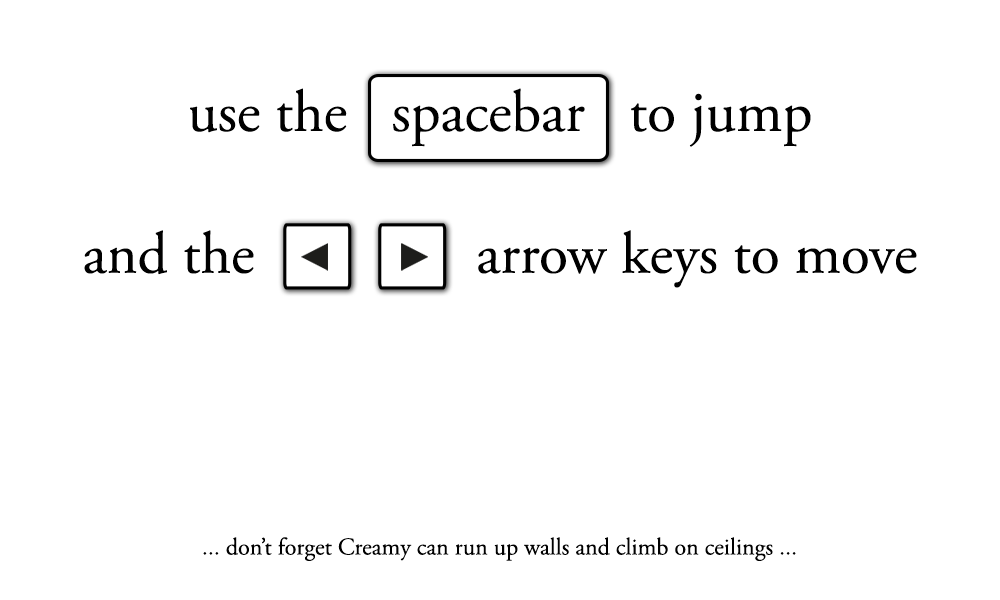
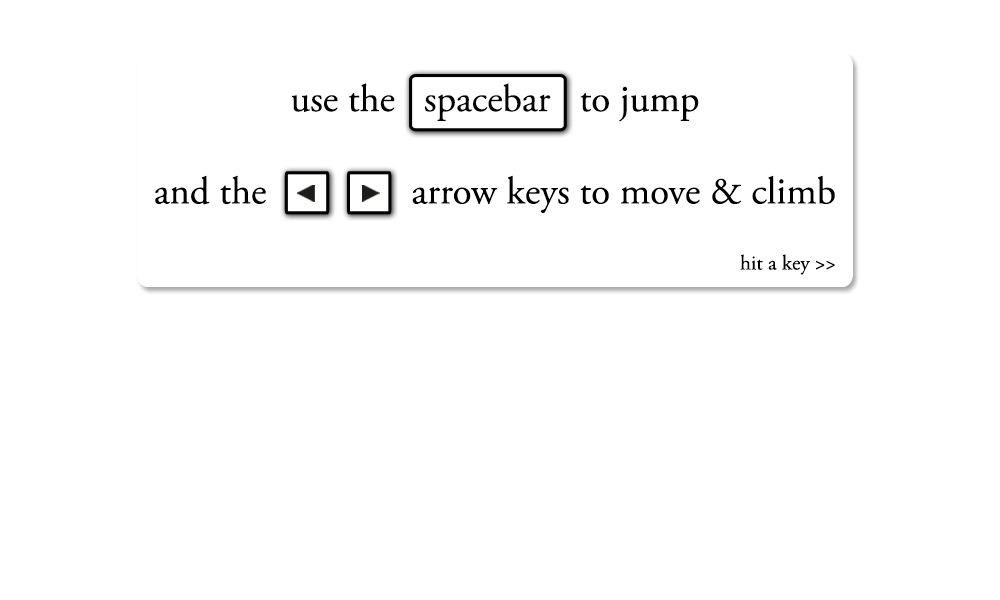
minified with closure, refined loading sequence

Changed region(s): [[0.062, 0.12, 0.93, 0.51], [0.217, 0.9, 0.775, 0.93]]

diff --git a/javascripts/creamy-min.js b/javascripts/creamy-min.js
@@ -1,0 +1,56 @@
+function xhrGet(d,a,c){var b=new XMLHttpRequest;b.open("GET",d,!0);c&&(b.responseType=c);b.onload=a;b.send()}Array.prototype.erase=function(d){for(var a=this.length;a--;a)this[a]===d&&this.splice(a,1);return this};Function.prototype.bind=function(d){var a=this;return function(){var c=Array.prototype.slice.call(arguments);return a.apply(d||null,c)}};
+merge=function(d,a){for(var c in a){var b=a[c];if("object"!=typeof b||b instanceof Class)d[c]=b;else{if(!d[c]||"object"!=typeof d[c])d[c]={};merge(d[c],b)}}return d};function copy(d){if(!d||"object"!=typeof d||d instanceof Class)return d;if(d instanceof Array)for(var a=[],c=0,b=d.length;c<b;c++)a[c]=copy(d[c]);else for(c in a={},d)a[c]=copy(d[c]);return a}
+function ksort(d){if(!d||"object"!=typeof d)return[];var a=[],c=[],b;for(b in d)a.push(b);a.sort();for(b=0;b<a.length;b++)c.push(d[a[b]]);return c}
+(function(){var d=!1,a=/xyz/.test(function(){xyz})?/\bparent\b/:/.*/;this.Class=function(){};var c=function(b){var c=this.prototype,d={},f;for(f in b)"function"==typeof b[f]&&"function"==typeof c[f]&&a.test(b[f])?(d[f]=c[f],c[f]=function(a,b){return function(){var c=this.parent;this.parent=d[a];var g=b.apply(this,arguments);this.parent=c;return g}}(f,b[f])):c[f]=b[f]};this.Class.extend=function(b){function g(){if(!d){if(this.staticInstantiate){var a=this.staticInstantiate.apply(this,arguments);if(a)return a}for(var b in this)"object"==
+typeof this[b]&&(this[b]=copy(this[b]));this.init&&this.init.apply(this,arguments)}return this}var e=this.prototype;d=!0;var f=new this;d=!1;for(var h in b)"function"==typeof b[h]&&"function"==typeof e[h]&&a.test(b[h])?f[h]=function(a,b){return function(){var c=this.parent;this.parent=e[a];var d=b.apply(this,arguments);this.parent=c;return d}}(h,b[h]):f[h]=b[h];g.prototype=f;g.constructor=g;g.extend=arguments.callee;g.inject=c;return g}})();
+newGuid_short=function(){return(65536*(1+Math.random())|0).toString(16).substring(1).toString()};(function(){window.Vec2=Box2D.Common.Math.b2Vec2;window.BodyDef=Box2D.Dynamics.b2BodyDef;window.Body=Box2D.Dynamics.b2Body;window.FixtureDef=Box2D.Dynamics.b2FixtureDef;window.Fixture=Box2D.Dynamics.b2Fixture;window.World=Box2D.Dynamics.b2World;window.MassData=Box2D.Collision.Shapes.b2MassData;window.PolygonShape=Box2D.Collision.Shapes.b2PolygonShape;window.CircleShape=Box2D.Collision.Shapes.b2CircleShape;window.DebugDraw=Box2D.Dynamics.b2DebugDraw;window.RevoluteJointDef=Box2D.Dynamics.Joints.b2RevoluteJointDef;
+var d=Class.extend({gravity:new Vec2(0,9.8),stateTime:0,world:null,scale:32,setup:function(){gPhysicsEngine.world=new World(gPhysicsEngine.gravity,!0);gPhysicsEngine.addContactListener({PostSolve:function(a,c,b,d){var e=a?a.GetUserData():null,f=c?c.GetUserData():null;if(e&&e.ent&&e.ent.onTouch)e.ent.onTouch(c,b,d);if(f&&f.ent&&f.ent.onTouch)f.ent.onTouch(a,b,d)},EndContact:function(a,c){var b=a?a.GetUserData():null,d=c?c.GetUserData():null;if(b&&b.ent&&b.ent.onEndContact)b.ent.onEndContact();if(d&&
+d.ent&&d.ent.onEndContact)d.ent.onEndContact()}})},update:function(a){this.stateTime+=a;this.stateTime>=1E3/60&&(this.stateTime=0,gPhysicsEngine.world.Step(1/60,8,3),gPhysicsEngine.world.ClearForces())},addContactListener:function(a){var c=new Box2D.Dynamics.b2ContactListener;a.PostSolve&&(c.PostSolve=function(b,c){a.PostSolve(b.GetFixtureA().GetBody(),b.GetFixtureB().GetBody(),c,b)});a.BeginContact&&(c.BeginContact=function(b){a.BeginContact(b.GetFixtureA().GetBody(),b.GetFixtureB().GetBody())});
+a.EndContact&&(c.EndContact=function(b){a.EndContact(b.GetFixtureA().GetBody(),b.GetFixtureB().GetBody())});gPhysicsEngine.world.SetContactListener(c)},addBody:function(a){var c=new BodyDef,b=new FixtureDef,d=null;c.type="static"===a.type?Body.b2_staticBody:Body.b2_dynamicBody;c.position.x=a.x/gPhysicsEngine.scale;c.position.y=a.y/gPhysicsEngine.scale;c.userData=a.userData||null;b.density=a.density||b.density;b.friction=a.friction||b.friction;b.restitution=a.restitution||b.restitution;a.shape?b.shape=
+a.shape:a.radius?b.shape=new CircleShape(a.radius/gPhysicsEngine.scale):(b.shape=new PolygonShape,b.shape.SetAsBox(a.halfWidth/gPhysicsEngine.scale,a.halfHeight/gPhysicsEngine.scale));d=gPhysicsEngine.world.CreateBody(c);d.CreateFixture(b);return d},removeBody:function(a){gPhysicsEngine.world.DestroyBody(a)},testEngine:function(){var a=new DebugDraw;a.SetSprite(gContext);a.SetDrawScale(gPhysicsEngine.scale);a.SetFillAlpha(0.3);a.SetLineThickness(1);a.SetFlags(DebugDraw.e_shapeBit|DebugDraw.e_jointBit);
+gPhysicsEngine.world.SetDebugDraw(a)}});window.gPhysicsEngine=new d}).call(this);var gCachedAssets={};function loadImage(d,a){if(gCachedAssets[d])a(gCachedAssets[d]);else{var c=new Image;c.onload=function(){gCachedAssets[d]=c;a(c)};c.src=d}}
+function loadAssets(d,a){for(var c={count:0,total:d.length,cb:a},b=0;b<d.length;b++)if(gCachedAssets[d[b]])onLoadedCallback(gCachedAssets[d[b]],c);else{var g=getAssetTypeFromExtension(d[b]);if(0===g){var e=new Image;e.onload=function(){onLoadedCallback(e,c)};e.src=d[b];gCachedAssets[d[b]]=e}else if(1===g){var f=document.createElement("script");f.setAttribute("type","text/javascript");f.onload=function(a){onLoadedCallback(f,c)};f.setAttribute("src",d[b]);document.getElementsByTagName("head")[0].appendChild(f);
+gCachedAssets[d[b]]=f}else if(2===g){var h=d[b];xhrGet(d[b],function(){gCachedAssets[h]=this.responseText;onLoadedCallback(h,c)})}}}function onLoadedCallback(d,a){a.count++;a.count==a.total&&a.cb(d)}function getAssetTypeFromExtension(d){return-1!=d.indexOf(".jpg")||-1!=d.indexOf(".jpeg")||-1!=d.indexOf(".png")||-1!=d.indexOf(".gif")||-1!=d.indexOf(".wp")?0:-1!=d.indexOf(".json")?2:-1!=d.indexOf(".js")?1:-1};(function(){window.requestAnimationFrame=window.requestAnimationFrame||window.mozRequestAnimationFrame||window.webkitRequestAnimationFrame||window.msRequestAnimationFrame;window.cancelAnimationFrame=window.cancelAnimationFrame||window.mozCancelAnimationFrame||window.webkitCancelAnimationFrame})();
+(function(){var d=Class.extend({request:null,startTime:0,gameState:3,STATE:{PLAY:1,GAMEOVER:2,WIN:3},numLevels:3,currentLevel:-1,entities:[],factory:{},_deferredKill:[],loadingHTML:"",setup:function(){gContext.drawImage(gCachedAssets["images/controls.png"],0,0);gGameEngine.loadingHTML+=gLoading.innerHTML;loadAssets(["images/background.png","images/gamesprite.png","images/gamesprite.json"],function(){gInputEngine.setup();gBackground.setup("images/background.png");gGameEngine.setupSounds();gGameEngine.setupSpritesAndEntities();
+gGameEngine.loadNextLevel()})},gameLoop:function(){if(gGameEngine.gameState===gGameEngine.STATE.PLAY){gGameEngine.request=requestAnimationFrame(gGameEngine.gameLoop);var a=Date.now()-gGameEngine.startTime;gGameEngine.startTime=Date.now();gGameEngine.update(a);gGameEngine.draw()}else gGameEngine.gameState===gGameEngine.STATE.GAMEOVER?(alert("game over"),cancelAnimationFrame(gGameEngine.request)):gGameEngine.gameState===gGameEngine.STATE.WIN&&(cancelAnimationFrame(gGameEngine.request),gGameEngine.loadNextLevel())},
+update:function(a){gPlayer.update(a);for(var c=null,b=0;b<gGameEngine.entities.length;b++)c=gGameEngine.entities[b],c._killed?gGameEngine._deferredKill.push(c):c.update(a);for(c=0;c<gGameEngine._deferredKill.length;c++)gGameEngine._deferredKill[c].kill&&gGameEngine._deferredKill[c].kill(),gGameEngine.entities.erase(gGameEngine._deferredKill[c]);gGameEngine._deferredKill=[];gPhysicsEngine.update(a)},draw:function(){gBackground.draw();gMap.draw(gContext);var a=[],c={};gGameEngine.entities.forEach(function(b){b.isVisible&&
+(-1===a.indexOf(b.zindex)&&(a.push(b.zindex),c[b.zindex]=[]),c[b.zindex].push(b))});a.sort(function(a,c){return a-c});a.forEach(function(a){c[a].forEach(function(a){a.draw()})});gPlayer.draw();gGameEngine.drawFrame()},loadNextLevel:function(){function a(){gLoading.style.visibility="hidden";gGameEngine.startTime=Date.now();gGameEngine.gameState=gGameEngine.STATE.PLAY;gGameEngine.request=requestAnimationFrame(gGameEngine.gameLoop);document.removeEventListener("keyup",a,!1)}if(gGameEngine.gameState===
+gGameEngine.STATE.WIN)if(gGameEngine.gameState=0,gGameEngine.currentLevel+=1,gGameEngine.currentLevel>=gGameEngine.numLevels)gContext.drawImage(gCachedAssets["images/winner.png"],0,0);else{if(0!==gGameEngine.currentLevel){gContext.fillStyle="white";gContext.fillRect(0,0,gCanvas.width,gCanvas.height);var c=document.getElementById("levelup");c.onload=function(){c.style.display="block";setTimeout(function(){c.style.display="none";a()},3E3)};c.src="images/levelup.gif?"+(new Date).valueOf()}else setTimeout(function(){loadAssets(["images/map_tileset.png"],
+function(){})},8E3);gLoading.innerHTML=gGameEngine.loadingHTML;gPhysicsEngine.setup();gGameEngine.entities=[];gGameEngine._deferredKill=[];var b="images/level"+gGameEngine.currentLevel+".json";gMap=new TILEDMapClass;gMap.load(b,function(){0===gGameEngine.currentLevel&&(gContext.drawImage(gCachedAssets["images/doneloading.png"],0,0),gGameEngine.drawFrame(),document.getElementById("logo").style.visibility="hidden");gMap.preDrawCache();gMap.createEntities();gMap.centerAt(gPlayer.pos.x,gPlayer.pos.y,
+600,1E3);gLoading.innerHTML="... hit any key to start ...";0===gGameEngine.currentLevel&&document.addEventListener("keyup",a,!1)},1E3,600)}},spawnEntity:function(a){a=new gGameEngine.factory[a];gGameEngine.entities.push(a);return a},drawFrame:function(){drawSprite("blendL.png",-1,-1,30,601);drawSprite("blendR.png",971,-1,30,601)},playWorldSound:function(a,c,b){var d=gGameEngine.gMap,d=0.5*Math.max(d.viewRect.w,d.viewRect.h),e=gGameEngine.gPlayer.pos;c=Math.abs(e.x-c);b=Math.abs(e.y-b);b=Math.sqrt(c*
+c+b*b)/d;1<b&&(b=1);if(!(0>b)){var f=1-b;gSM.loadAsync(a,function(a){gSM.playSound(a.path,{volume:f,looping:!1})})}},setupSounds:function(){gSM.loadAsync("sound/coin.ogg",function(){gSM.loadAsync("sound/hit.ogg",function(){gSM.playSound("sound/coin.ogg")})})},setupSpritesAndEntities:function(){var a=new SpriteSheetClass;a.setAsset("images/gamesprite.png",gCachedAssets["images/gamesprite.png"]);a.parseAtlasDefinition(gCachedAssets["images/gamesprite.json"])},createPlatform:function(a,c,b,d){gGameEngine.spawnEntity("PlatformEntity").create(a,
+c,b,d,"platform.png",null)},createGoal:function(a,c){gGameEngine.spawnEntity("GoalEntity").create(a,c,380,380,"goal01.png goal02.png goal03.png goal04.png goal05.png goal06.png goal07.png goal08.png goal09.png goal10.png".split(" "),700)},createDynamicEnemy:function(a,c){gGameEngine.spawnEntity("EnemyEntity").create(a,c,139,120,"enemydynamic01.png enemydynamic02.png enemydynamic03.png enemydynamic04.png enemydynamic05.png enemydynamic06.png enemydynamic07.png".split(" "),500,!0)},createStaticEnemy:function(a,
+c){gGameEngine.spawnEntity("EnemyEntity").create(a,c,300,104,"enemystatic01.png enemystatic02.png enemystatic03.png enemystatic04.png enemystatic05.png enemystatic06.png enemystatic06.png".split(" "),800,!1)}});window.gGameEngine=new d}).call(this);var fudgeVariance=128,EntityClass=Class.extend({pos:{x:0,y:0},canvaspos:{x:0,y:0},size:{x:0,y:0},halfsize:{x:0,y:0},_killed:!1,zindex:0,sprite:"",create:function(d,a,c,b,g){this.pos.x=d;this.pos.y=a;this.size.x=c;this.size.y=b;this.halfsize.x=c/2;this.halfsize.y=b/2;this.sprite=g;this.convertPosToScreen()},position:function(d,a){this.pos.x=d;this.pos.y=a},setSprite:function(d){this.sprite=d},update:function(){},convertPosToScreen:function(){this.canvaspos.x=this.pos.x-gMap.viewRect.x;this.canvaspos.y=
+this.pos.y-gMap.viewRect.y},draw:function(){this.convertPosToScreen();drawSprite(this.sprite,this.canvaspos.x-this.halfsize.x,this.canvaspos.y-this.halfsize.y,this.size.x,this.size.y)},isVisible:function(){return entity.pos.x>=gMap.viewRect.x-fudgeVariance&&entity.pos.x<gMap.viewRect.x+gMap.viewRect.w+fudgeVariance&&entity.pos.y>=gMap.viewRect.y-fudgeVariance&&entity.pos.y<gMap.viewRect.y+gMap.viewRect.h+fudgeVariance?!0:!(gMap.viewRect.x>this.pos.x+this.halfsize.x||gMap.viewRect.x+gMap.viewRect.w<
+this.pos.x-this.halfsize.x||gMap.viewRect.y>this.pos.y+this.halfsize.y||gMap.viewRect.y+gMap.viewRect.h<this.pos.y+this.halfsize.y)}});gGameEngine.factory.EntityClass=EntityClass;(function(){var d=Class.extend({clips:{},enabled:!0,_context:null,_mainNode:null,setup:function(){try{gSM._context=new webkitAudioContext}catch(a){console.log("Web Audio API is not supported in this browser");gSM._context=null;gSM.enabled=!1;return}gSM._mainNode=gSM._context.createGainNode(0);gSM._mainNode.connect(gSM._context.destination)},loadAsync:function(c,b){if(gSM.clips[c])return b(gSM.clips[c].s),gSM.clips[c].s;var d={s:new a,b:null,l:!1};gSM.clips[c]=d;d.s.path=c;var e=new XMLHttpRequest;
+e.open("GET",c,!0);e.responseType="arraybuffer";e.onload=function(){gSM._context.decodeAudioData(e.response,function(a){gSM.clips[c].b=a;gSM.clips[c].l=!0;b(gSM.clips[c].s)},function(a){})};e.send();return d.s},togglemute:function(){if(!gSM.enabled)return!1;gSM._mainNode.gain.value=0<gSM._mainNode.gain.value?0:1},stopAll:function(){gSM._mainNode.disconnect();gSM._mainNode=gSM._context.createGainNode(0);gSM._mainNode.connect(gSM._context.destination)},playSound:function(a,b){if(!gSM.enabled)return!1;
+var d=!1,e=0.2;b&&(b.looping&&(d=b.looping),b.volume&&(e=b.volume));var f=this.clips[a];if(null===f||!1===f.l)return!1;var h=null,h=gSM._context.createBufferSource();h.buffer=f.b;h.gain.value=e;h.loop=d;h.connect(gSM._mainNode);h.noteOn(0);return!0}}),a=Class.extend({play:function(a){gSM.playSound(this.path,{looping:a,volume:1})}});window.gSM=new d}).call(this);(function(){var d=Class.extend({bindings:{},actions:{},mouse:{x:0,y:0},setup:function(){gInputEngine.bind(32,"jump");gInputEngine.bind(37,"move-left");gInputEngine.bind(39,"move-right");document.addEventListener("keydown",gInputEngine.onKeyDown);document.addEventListener("keyup",gInputEngine.onKeyUp)},onMouseMove:function(a){gInputEngine.mouse.x=a.clientX;gInputEngine.mouse.y=a.clientY},onKeyDown:function(a){(a=gInputEngine.bindings[a.keyCode])&&(gInputEngine.actions[a]=!0)},onKeyUp:function(a){(a=
+gInputEngine.bindings[a.keyCode])&&(gInputEngine.actions[a]=!1)},bind:function(a,c){gInputEngine.bindings[a]=c}});window.gInputEngine=new d}).call(this);var gSpriteSheets={},SpriteSheetClass=Class.extend({img:null,url:"",sprites:[],init:function(){},load:function(d){this.url=d;var a=new Image;a.src=d;this.img=a;gSpriteSheets[d]=this},setAsset:function(d,a){this.url=d;this.img=a;gSpriteSheets[d]=this},defSprite:function(d,a,c,b,g,e,f){this.sprites.push({id:d,x:a,y:c,w:b,h:g,cx:null===e?0:e,cy:null===f?0:f})},parseAtlasDefinition:function(d){d=JSON.parse(d);for(var a in d.frames){var c=d.frames[a],b=0.5*-c.frame.w,g=0.5*-c.frame.h;c.trimmed&&(g=0.5*
+c.sourceSize.h,b=-(0.5*c.sourceSize.w-c.spriteSourceSize.x),g=-(g-c.spriteSourceSize.y));this.defSprite(a,c.frame.x,c.frame.y,c.frame.w,c.frame.h,b,g)}},getStats:function(d){for(var a=0;a<this.sprites.length;a++)if(this.sprites[a].id===d)return this.sprites[a];return null}});function drawSprite(d,a,c,b,g){for(var e in gSpriteSheets){var f=gSpriteSheets[e],h=f.getStats(d);if(null!==h){if(null===f)break;gContext.drawImage(f.img,h.x,h.y,h.w,h.h,a,c,b,g);break}}};var AnimatedEntity=EntityClass.extend({assets:[],numFrames:0,currentFrame:0,frameLength:0,stateTime:0,loop:!1,direction:1,create:function(d,a,c,b,g,e,f){this.parent(d,a,c,b,null);this.assets=g;this.numFrames=g.length;this.frameLength=e/this.numFrames;this.loop=f||!1},update:function(d){this.stateTime+=d;if(this.stateTime>this.frameLength&&(this.stateTime=0,this.currentFrame+=this.direction,this.currentFrame>=this.numFrames||0>this.currentFrame))this.currentFrame-=this.direction,this.direction*=-1,
+this.loop||(this._killed=!0)},draw:function(){this.setSprite(this.assets[this.currentFrame]);this.parent()}});gGameEngine.factory.AnimatedEntity=AnimatedEntity;(function(){var d=Class.extend({x:0,y:0,w:100,h:100,cvsHdl:null,ctx:null,create:function(a,c){this.y=this.x=-1;this.w=a;this.h=c;var b=document.createElement("canvas");b.width=a;b.height=c;this.cvsHdl=b;this.ctx=b.getContext("2d")},isVisible:function(){var a=gMap.viewRect;return gMap.intersectRect({top:this.y,left:this.x,bottom:this.y+this.h,right:this.x+this.w},{top:a.y,left:a.x,bottom:a.y+a.h,right:a.x+a.w})}});window.TILEDMapClass=Class.extend({platformBuilder:{newPlatform:!0,size:0,start:{x:0,
+y:0},vertical:[]},currMapData:null,tilesets:[],viewRect:{x:0,y:0,w:1E3,h:1E3},numXTiles:100,numYTiles:100,tileSize:{x:64,y:64},pixelSize:{x:64,y:64},imgLoadCount:0,fullyLoaded:!1,canvasTileSize:{x:1024,y:1024},canvasTileArray:[],canvas_width:0,canvas_height:0,load:function(a,c,b,d){gMap.canvas_width=b;gMap.canvas_height=d;xhrGet(a,function(){gMap.parseMapJSON(this.response,c)})},parseMapJSON:function(a,c){gMap.currMapData=JSON.parse(a);var b=gMap.currMapData;gMap.numXTiles=b.width;gMap.numYTiles=
+b.height;gMap.tileSize.x=b.tilewidth;gMap.tileSize.y=b.tileheight;gMap.pixelSize.x=gMap.numXTiles*gMap.tileSize.x;gMap.pixelSize.y=gMap.numYTiles*gMap.tileSize.y;for(var d=0;d<b.tilesets.length;d++){var e=new Image;e.onload=function(){gMap.imgLoadCount++;gMap.imgLoadCount===b.tilesets.length&&(gMap.fullyLoaded=!0,c())};var f={firstgid:gMap.currMapData.tilesets[d].firstgid,image:e,imageheight:gMap.currMapData.tilesets[d].imageheight,imagewidth:gMap.currMapData.tilesets[d].imagewidth,name:gMap.currMapData.tilesets[d].name,
+margin:gMap.currMapData.tilesets[d].margin,numXTiles:Math.floor(gMap.currMapData.tilesets[d].imagewidth/gMap.tileSize.x),numYTiles:Math.floor(gMap.currMapData.tilesets[d].imageheight/gMap.tileSize.y)};e.src="images/"+b.tilesets[d].image.replace(/^.*[\\\/]/,"");gMap.tilesets.push(f)}},getTilePacket:function(a){for(var c={img:null,px:0,py:0},b=0,b=gMap.tilesets.length-1;0<=b&&!(gMap.tilesets[b].firstgid<=a);b--);c.img=gMap.tilesets[b].image;var d=a-gMap.tilesets[b].firstgid;a=Math.floor(d%gMap.tilesets[b].numXTiles);
+d=Math.floor(d/gMap.tilesets[b].numXTiles);c.px=a*gMap.tileSize.x;c.py=d*gMap.tileSize.y;gMap.tilesets[b].margin&&(b=gMap.tilesets[b].margin,c.px+=a*b+b,c.py+=d*b+b);return c},draw:function(a){if(gMap.fullyLoaded)for(var c=0;c<gMap.canvasTileArray.length;c++){var b=gMap.canvasTileArray[c];b.isVisible()&&a.drawImage(b.cvsHdl,b.x-gMap.viewRect.x,b.y-gMap.viewRect.y)}},preDrawCache:function(){for(var a=1+Math.floor(gMap.pixelSize.x/gMap.canvasTileSize.x),c=1+Math.floor(gMap.pixelSize.y/gMap.canvasTileSize.y),
+b=0;b<c;b++)for(var g=0;g<a;g++){var e=new d;e.create(gMap.canvasTileSize.x,gMap.canvasTileSize.y);e.x=g*gMap.canvasTileSize.x;e.y=b*gMap.canvasTileSize.y;gMap.canvasTileArray.push(e);gMap.fillCanvasTile(e)}gMap.fullyLoaded=!0},fillCanvasTile:function(a){var c=a.ctx;c.clearRect(0,0,a.w,a.h);a={top:a.y,left:a.x,bottom:a.y+a.h,right:a.x+a.w};for(var b=0;b<gMap.currMapData.layers.length;b++)if("tilelayer"==gMap.currMapData.layers[b].type&&"borders"!==gMap.currMapData.layers[b].name)for(var d=gMap.currMapData.layers[b].data,
+e=0;e<d.length;e++){var f=d[e];if(0!==f){var f=gMap.getTilePacket(f),h=Math.floor(e%gMap.numXTiles)*gMap.tileSize.x,k=Math.floor(e/gMap.numXTiles)*gMap.tileSize.y;gMap.intersectRect(a,{top:k,left:h,bottom:k+gMap.tileSize.y,right:h+gMap.tileSize.x})&&c.drawImage(f.img,f.px,f.py,this.tileSize.x,this.tileSize.y,h-a.left,k-a.top,this.tileSize.x,this.tileSize.y)}}},createEntities:function(){for(var a=0,c=0,b=0,d=0,e=0,f=[],b=0;b<gMap.currMapData.layers.length;b++)if("borders"===gMap.currMapData.layers[b].name){f=
+gMap.currMapData.layers[b].data;for(d=0;d<f.length;d++)e=f[d],a=Math.floor(d%gMap.numXTiles)*gMap.tileSize.x,c=Math.floor(d/gMap.numXTiles)*gMap.tileSize.y,gMap.buildHorizontalPlatform(e,a,c),2===e?gGameEngine.createGoal(a,c):3===e?gGameEngine.createDynamicEnemy(a,c):4===e?gPlayer.setup(a,c,200,200):5===e?gGameEngine.createStaticEnemy(a,c):6===e&&gMap.platformBuilder.vertical.push({x:a,y:c}),0===(d+1)%gMap.numXTiles&&gMap.buildHorizontalPlatform(-1)}gMap.buildVerticalPlatforms()},buildHorizontalPlatform:function(a,
+c,b){gMap.platformBuilder.newPlatform?1===a&&(gMap.platformBuilder.newPlatform=!1,gMap.platformBuilder.size=1,gMap.platformBuilder.start.x=c,gMap.platformBuilder.start.y=b):1!==a?(gGameEngine.createPlatform(gMap.platformBuilder.start.x,gMap.platformBuilder.start.y+6,gMap.tileSize.x*gMap.platformBuilder.size,gMap.tileSize.y-12),gMap.platformBuilder.newPlatform=!0):gMap.platformBuilder.size+=1},buildVerticalPlatforms:function(){var a=[],c={};gMap.platformBuilder.vertical.forEach(function(b){-1===a.indexOf(b.x)&&
+(a.push(b.x),c[b.x]=[]);c[b.x].push(b)});a.forEach(function(a){c[a].sort(function(a,b){return a.y===b.y?0:a.y<b.y?-1:1});a=c[a];var d=a.length;gMap.platformBuilder.size=1;gMap.platformBuilder.start.x=a[0].x;gMap.platformBuilder.start.y=a[0].y;for(var e=1;e<d;e++)e+1===d?(gMap.platformBuilder.size+=1,gGameEngine.createPlatform(gMap.platformBuilder.start.x+5,gMap.platformBuilder.start.y+12,gMap.tileSize.x-10,gMap.tileSize.y*gMap.platformBuilder.size)):a[e].y!==a[e-1].y+gMap.tileSize.y?(gGameEngine.createPlatform(gMap.platformBuilder.start.x+
+5,gMap.platformBuilder.start.y+12,gMap.tileSize.x-10,gMap.tileSize.y*gMap.platformBuilder.size),gMap.platformBuilder.size=1,gMap.platformBuilder.start.x=a[e].x,gMap.platformBuilder.start.y=a[e].y):gMap.platformBuilder.size+=1})},intersectRect:function(a,c){return!(c.left>a.right||c.right<a.left||c.top>a.bottom||c.bottom<a.top)},centerAt:function(a,c){gMap.viewRect.x=a-gMap.canvas_width/2;0>gMap.viewRect.x?gMap.viewRect.x=0:gMap.viewRect.x+gMap.canvas_width>gMap.pixelSize.x&&(gMap.viewRect.x=gMap.pixelSize.x-
+gMap.canvas_width);gMap.viewRect.y=c-gMap.canvas_height/2;0>gMap.viewRect.y?gMap.viewRect.y=0:gMap.viewRect.y+gMap.canvas_height>gMap.pixelSize.y&&(gMap.viewRect.y=gMap.pixelSize.y-gMap.canvas_height)}});window.gMap=new TILEDMapClass}).call(this);var EnemyEntity=AnimatedEntity.extend({zindex:2,physBody:null,newPos:{x:0,y:0},dynamic:!1,startAnim:0,currentTime:0,currVel:null,create:function(d,a,c,b,g,e,f){(this.dynamic=f)?(this.parent(d,a,c,b,g,e,!0),this.startAnim=100*Math.random(),this.physBody=gPhysicsEngine.addBody({x:d,y:a,type:"dynamic",density:1,friction:0.5,restitution:0.7,radius:50,userData:{id:"enemy",ent:this}})):(this.parent(d,a+2,c,b,g,e,!0),this.startAnim=300*Math.random(),this.physBody=gPhysicsEngine.addBody({x:d,y:a+2,halfWidth:c/
+2-34,halfHeight:b/2-25,type:"static",density:1,friction:0.5,restitution:0.7,userData:{id:"enemy",ent:this}}))},update:function(d){this.dynamic&&(this.newPos=this.physBody.GetPosition(),this.currVel=this.physBody.GetLinearVelocity(),this.position(this.newPos.x*gPhysicsEngine.scale,this.newPos.y*gPhysicsEngine.scale),0.4>this.currVel.y&&this.physBody.ApplyImpulse({x:0,y:-0.4},this.newPos));this.currentTime+=d;this.currentTime>=this.startAnim&&(this.parent(d),0===this.currentFrame&&(this.currentTime=
+0))},kill:function(){gPhysicsEngine.removeBody(this.physBody)}});gGameEngine.factory.EnemyEntity=EnemyEntity;(function(){var d=Class.extend({image:"",setup:function(a){this.image=a},draw:function(){gContext.drawImage(gCachedAssets[this.image],0,0,gCanvas.width,gCanvas.height)}});window.gBackground=new d}).call(this);var GoalEntity=AnimatedEntity.extend({zindex:2,physBody:null,create:function(d,a,c,b,g,e){this.parent(d,a,c,b,g,e,!0);this.physBody=gPhysicsEngine.addBody({x:d,y:a,type:"static",radius:32,userData:{id:"goal",ent:this}})}});gGameEngine.factory.GoalEntity=GoalEntity;var PlatformEntity=EntityClass.extend({zindex:1,physBody:null,newPos:{x:0,y:0},create:function(d,a,c,b,g,e){e=c/2;var f=b/2;this.parent(d+e,a+f,c,b,g);this.physBody=gPhysicsEngine.addBody({halfWidth:e,halfHeight:f,x:d+e,y:a+f,type:"static",userData:{id:"platform",ent:this}})},draw:function(){},onTouch:function(d,a){},update:function(d){},kill:function(){gPhysicsEngine.removeBody(this.physBody)}});gGameEngine.factory.PlatformEntity=PlatformEntity;(function(){var d=Class.extend({startPos:{x:0,y:0},pos:{x:0,y:0},forcePos:null,newpos:{x:0,y:0},canvaspos:{x:0,y:0},size:{x:0,y:0},halfsize:{x:0,y:0},stateTime:0,physBody:null,readyToJump:!1,jumpStrength:100,jumpVec:{x:0,y:-1},oldJumpVec:{x:0,y:0},speed:8,maxSpeed:24,currVel:null,antiForce:0,onWall:!1,onCeiling:!1,walkRight:["creamywalk01.png","creamywalk02.png"],walkLeft:["creamywalk01L.png","creamywalk02L.png"],walkJumpRight:["creamywalk04.png","creamywalk05.png"],walkJumpLeft:["creamywalk04L.png",
+"creamywalk05L.png"],ceilingRight:["creamyhang05.png","creamyhang04.png"],ceilingLeft:["creamyhang05L.png","creamyhang04L.png"],ceilingJumpR:["creamywalk05.png","creamywalk05.png"],ceilingJumpL:["creamywalk05L.png","creamywalk05L.png"],stand:["creamyjump01.png","creamyjump01.png"],standJump:["creamyjump00.png","creamyjump03.png"],wallWalkRight:["creamywall01.png","creamywall03.png"],wallWalkLeft:["creamywall01L.png","creamywall03L.png"],currentFrame:0,updateTime:100,animTime:0,animDir:1,jumper:!1,
+dirX:1,dirY:1,currentAnimation:null,setup:function(a,c,b,d){this.startPos.x=a;this.startPos.y=c;this.size.x=b;this.size.y=d;this.halfsize.x=b/2;this.halfsize.y=d/2;this.currentAnimation=this.stand;this.physBody=gPhysicsEngine.addBody({x:a,y:c,type:"dynamic",density:0.6,friction:1,restitution:-200,radius:b/2,userData:{id:"player",ent:this}});this.antiForce=gPhysicsEngine.gravity.y*this.physBody.GetMass()/20},draw:function(){this.convertPosToScreen();drawSprite(this.currentAnimation[this.currentFrame],
+this.canvaspos.x-this.halfsize.x,this.canvaspos.y-this.halfsize.y,this.size.x,this.size.y)},update:function(a){this.newpos.y>gMap.pixelSize.y&&(this.forcePos={x:this.startPos.x,y:this.startPos.y});this.forcePos&&(this.physBody.SetPosition(new Vec2(this.forcePos.x/gPhysicsEngine.scale,this.forcePos.y/gPhysicsEngine.scale)),this.forcePos=null);this.pos=this.physBody.GetPosition();this.currVel=this.physBody.GetLinearVelocity();this.onCeiling&&this.physBody.ApplyForce({x:0,y:-(8*this.antiForce)},this.physBody.GetWorldCenter());
+this.stateTime+=a;16<this.stateTime&&(this.stateTime=0,!0===this.readyToJump?(this.onWall&&this.physBody.ApplyForce({x:0,y:-this.antiForce},this.physBody.GetWorldCenter()),this.setWalkAnimation(),this.updatePlayerInput()):0===this.jumpVec.x?this.onWall=!1:0>=this.jumpVec.x&&(this.onCeiling=!1));this.newpos.x=this.pos.x*gPhysicsEngine.scale;this.newpos.y=this.pos.y*gPhysicsEngine.scale;gMap.centerAt(this.newpos.x,this.newpos.y,600,1E3);this.oldJumpVec.x=this.jumpVec.x;this.oldJumpVec.y=this.jumpVec.y;
+this.updateAnimations(a)},updatePlayerInput:function(){gInputEngine.actions.jump&&this.readyToJump&&(this.physBody.ApplyImpulse(this.jumpVec,this.pos),this.setJumpAnimation(),this.jumpVec.x=0,this.jumpVec.y=0,this.onCeiling=this.readyToJump=!1);!0===this.readyToJump&&(gInputEngine.actions["move-right"]&&this.currVel.x<this.maxSpeed&&(0===this.jumpVec.x?this.physBody.ApplyImpulse({x:this.speed,y:0},this.pos):0<this.jumpVec.x?this.physBody.ApplyImpulse({x:0,y:this.speed},this.pos):this.physBody.ApplyImpulse({x:0,
+y:-this.speed},this.pos)),gInputEngine.actions["move-left"]&&this.currVel.x>-this.maxSpeed&&(0===this.jumpVec.x?this.physBody.ApplyImpulse({x:-this.speed,y:0},this.pos):0<this.jumpVec.x?this.physBody.ApplyImpulse({x:0,y:-this.speed},this.pos):this.physBody.ApplyImpulse({x:0,y:this.speed},this.pos)))},onTouch:function(a,c,b){this.physBody&&a.GetUserData()&&(a=a.GetUserData(),a.ent&&!a.ent._killed&&("platform"===a.id?(this.readyToJump=!0,b=b.GetManifold().m_localPlaneNormal,this.jumpVec={x:b.x*this.jumpStrength,
+y:b.y*this.jumpStrength},0!==this.jumpVec.x&&!1===this.onWall?(this.onWall=!0,this.physBody.SetLinearVelocity(new Vec2(0,0))):0<this.jumpVec.y&&!1===this.onCeiling&&(this.onCeiling=!0)):"enemy"===a.id?(this.forcePos={x:this.startPos.x,y:this.startPos.y},this.physBody.SetLinearVelocity(new Vec2(0,0)),this.currentAnimation=this.stand,gSM.playSound("sound/hit.ogg")):"goal"===a.id&&(gGameEngine.gameState=gGameEngine.STATE.WIN,gSM.playSound("sound/coin.ogg"))))},onEndContact:function(){this.jumpVec.x=
+0;this.jumpVec.y=0;this.readyToJump=!1},updateAnimations:function(a){if(0.8<this.currVel.x||-0.8>this.currVel.x||0.8<this.currVel.y||-0.8>this.currVel.y){this.animTime+=a;if(this.animTime>this.updateTime&&(this.animTime=0,this.currentFrame+=this.animDir,this.jumper&&(this.currentFrame=1),this.currentFrame>=this.currentAnimation.length||0>this.currentFrame))this.currentFrame-=this.animDir,this.animDir*=-1;this.oldJumpVec.x!==this.jumpVec.x&&this.oldJumpVec.y!==this.jumpVec.y&&this.setWalkAnimation()}else 0>
+this.jumpVec.y&&(this.currentAnimation=this.stand)},setJumpAnimation:function(){this.currentAnimation=0>this.jumpVec.y&&0<this.currVel.x?this.walkJumpRight:0>this.jumpVec.y&&0>this.currVel.x?this.walkJumpLeft:0<this.jumpVec.y&&0<this.currVel.x?this.ceilingJumpR:0<this.jumpVec.y&&0>this.currVel.x?this.ceilingJumpL:0<this.jumpVec.x?this.ceilingJumpR:0>this.jumpVec.x?this.ceilingJumpL:this.standJump;this.jumper=!0},setWalkAnimation:function(){0>this.jumpVec.x?(this.currentAnimation=this.wallWalkRight,
+this.jumper=!1):0<this.jumpVec.x?(this.currentAnimation=this.wallWalkLeft,this.jumper=!1):0>this.jumpVec.y&&0<this.currVel.x?(this.currentAnimation=this.walkRight,this.jumper=!1):0>this.jumpVec.y&&0>this.currVel.x?(this.currentAnimation=this.walkLeft,this.jumper=!1):0<this.jumpVec.y&&0<this.currVel.x?(this.currentAnimation=this.ceilingRight,this.jumper=!1):0<this.jumpVec.y&&0>this.currVel.x&&(this.currentAnimation=this.ceilingLeft,this.jumper=!1)},convertPosToScreen:function(){this.canvaspos.x=this.newpos.x-
+gMap.viewRect.x;this.canvaspos.y=this.newpos.y-gMap.viewRect.y}});window.gPlayer=new d}).call(this);(function(){function d(){gLoading.style.position="fixed";gLoading.style.top="45%";var a=setInterval(function(){gLoading.style.top=parseInt(gLoading.style.top,10)+1+"%";70<parseInt(gLoading.style.top,10)&&clearInterval(a)},10)}window.gLoading=null;window.gCanvas=null;window.gContext=null;var a=["images/controls.png","images/doneloading.png","images/winner.png"];window.onload=function(){loadAssets(a,function(){var a=document.getElementById("soundcontrol"),b=document.getElementById("screenshot");gLoading=
+document.getElementById("loading");gCanvas=document.getElementById("game");gContext=gCanvas.getContext("2d");d(gLoading,20);gContext.drawImage(gCachedAssets["images/controls.png"],0,0);gSM.setup();a.addEventListener("click",function(b){b.preventDefault();gSM.togglemute();a.style.textDecoration="line-through"===a.style.textDecoration?"none":"line-through"});b.addEventListener("click",function(a){a.preventDefault();window.open(gCanvas.toDataURL(),"screen shot")});gSM.loadAsync("sound/music.mp3",function(){gSM.playSound("sound/music.mp3",
+{looping:!0})});gGameEngine.setup()})}}).call(this);

diff --git a/javascripts/GameEngine.js b/javascripts/GameEngine.js
@@ -47,11 +47,32 @@
 
     // loading
     loadingHTML: '',
+    fullyLoaded: false,
+    loadInterval: 0,
 
     // ******************************************************************************************** setup
     setup: function () {
 
       gContext.drawImage(gCachedAssets['images/controls.png'], 0, 0);
+      document.addEventListener('keyup', continueIntro);
+
+      function continueIntro() {
+        document.removeEventListener('keyup', continueIntro, false);
+
+        gContext.drawImage(gCachedAssets['images/doneloading.png'], 0, 0);
+        gGameEngine.drawFrame();
+        document.getElementById('logo').style.visibility = 'hidden';
+
+        gGameEngine.loadInterval = setInterval(function() {
+          // check if game is loaded
+          if (gGameEngine.fullyLoaded) {
+            clearInterval(gGameEngine.loadInterval);
+            document.addEventListener('keyup', gGameEngine.startGame, false);
+            // let user know we are ready
+            gLoading.innerHTML = "... hit any key to start ...";
+          }
+        }, 200);
+      }
 
       // save initial loading gif
       gGameEngine.loadingHTML += gLoading.innerHTML;
@@ -59,12 +80,7 @@
       var assets = [
           'images/background.png',
           'images/gamesprite.png',
-          'images/gamesprite.json',
-          'javascripts/EnemyEntity.js',
-          'javascripts/Background.js',
-          'javascripts/GoalEntity.js',
-          'javascripts/PlatformEntity.js',
-          'javascripts/Player.js' ];
+          'images/gamesprite.json' ];
 
       loadAssets(assets, function() {
 
@@ -73,7 +89,7 @@
         gBackground.setup('images/background.png');
 
         gGameEngine.setupSounds();
-        gGameEngine.setupSpritesAndEntities();
+        gGameEngine.setupSprites();
 
         // load first level and start game
         gGameEngine.loadNextLevel();
@@ -172,7 +188,7 @@
     // ******************************************************************************************** next level
     loadNextLevel: function() {
 
-      // prevent requestAnimationFrame to call more than once
+      // prevent calling more than once
       if (gGameEngine.gameState !== gGameEngine.STATE.WIN) return;
       gGameEngine.gameState = 0;
 
@@ -189,16 +205,14 @@
 
           var gif = document.getElementById('levelup');
           gif.onload = function() {
-
+            gif.style.display = 'block';
             setTimeout(function() {
-              gLoading.style.visibility = 'visible';
               gif.style.display = 'none';
-
+              gGameEngine.startGame(); // no loading necessary so we can just dive right in
             }, 3000);
           };
 
           gif.src = 'images/levelup.gif'  + '?' + (new Date().valueOf());
-          gif.style.display = 'block';
 
         } else {
           // while player plays level 0 & 1 cache the big tileset for later levels
@@ -222,30 +236,23 @@
         gMap.load(level, function() {
 
           gMap.preDrawCache(); // pre-render canvas tiles
-
-          gContext.drawImage(gCachedAssets['images/doneloading.png'], 0, 0);
-          document.getElementById('logo').style.visibility = 'hidden';
-          gGameEngine.drawFrame();
-
           gMap.createEntities();
           gMap.centerAt(gPlayer.pos.x, gPlayer.pos.y, 600, 1000);
 
-          // let user know we are ready
-          gLoading.innerHTML = "... hit any key to start ...";
-
-          function startGame() {
-            gLoading.style.visibility = 'hidden';
-
-            gGameEngine.startTime = Date.now();
-            gGameEngine.gameState = gGameEngine.STATE.PLAY;
-            gGameEngine.request = requestAnimationFrame(gGameEngine.gameLoop);
-            document.addEventListener('keyup', startGame, false);
-          }
-
-          document.addEventListener('keyup', startGame, false);
+          if (gGameEngine.currentLevel === 0) gGameEngine.fullyLoaded = true;
         }, 1000, 600);
       }
     },
+
+    startGame: function() {
+      gLoading.style.visibility = 'hidden';
+      document.removeEventListener('keyup', gGameEngine.startGame, false);
+
+      gGameEngine.startTime = Date.now();
+      gGameEngine.gameState = gGameEngine.STATE.PLAY;
+      gGameEngine.request = requestAnimationFrame(gGameEngine.gameLoop);
+    },
+
 
     // ******************************************************************************************** utils
     spawnEntity: function (typename) {
@@ -316,33 +323,10 @@
       });
     },
 
-    setupSpritesAndEntities: function() {
+    setupSprites: function() {
       var sprite = new SpriteSheetClass();
       sprite.setAsset('images/gamesprite.png', gCachedAssets['images/gamesprite.png']);
       sprite.parseAtlasDefinition(gCachedAssets['images/gamesprite.json']);
-
-      /*
-      // main walls around the perimeter of the map
-      var top = gGameEngine.spawnEntity('PlatformEntity');
-      top.create(0, 0,
-                  gMap.pixelSize.x, gPhysicsEngine.scale,
-                  'platform.png', null);
-
-      var right = gGameEngine.spawnEntity('PlatformEntity');
-      right.create(gMap.pixelSize.x - gPhysicsEngine.scale, 0,
-                  gPhysicsEngine.scale, gMap.pixelSize.y,
-                  'platform.png', null);
-
-      var bottom = gGameEngine.spawnEntity('PlatformEntity');
-      bottom.create(0, gMap.pixelSize.y - gPhysicsEngine.scale,
-                  gMap.pixelSize.x, gPhysicsEngine.scale,
-                  'platform.png', null);
-
-      var left = gGameEngine.spawnEntity('PlatformEntity');
-      left.create(0, 0,
-                  gPhysicsEngine.scale, gMap.pixelSize.y,
-                  'platform.png', null);
-      */
     },
 
     // these helpers are used by gMap to populate the level

diff --git a/stylesheets/application.css b/stylesheets/application.css
@@ -68,16 +68,17 @@ html, body {
 #loading {
   position: fixed;
   top: 45%;
+  left: 6%;
   width: 100%;
   text-align: center;
   font: 1.6em "EB Garamond", serif;
 }
-/* line 33, ../sass/application.sass */
+/* line 34, ../sass/application.sass */
 #loading img {
   display: inline-block;
 }
 
-/* line 38, ../sass/application.sass */
+/* line 39, ../sass/application.sass */
 .mainheader {
   width: 1000px;
   margin: 0 auto;
@@ -85,19 +86,19 @@ html, body {
   display: block;
   padding-bottom: 2.5%;
 }
-/* line 45, ../sass/application.sass */
+/* line 46, ../sass/application.sass */
 .mainheader p {
   float: right;
   font: 0.5em "EB Garamond", serif;
   font-variant: small-caps;
 }
-/* line 49, ../sass/application.sass */
+/* line 50, ../sass/application.sass */
 .mainheader p a {
   text-decoration: none;
   color: black;
 }
 
-/* line 53, ../sass/application.sass */
+/* line 54, ../sass/application.sass */
 #browserwarning {
   float: left;
   visibility: hidden;
@@ -106,7 +107,7 @@ html, body {
   padding-right: 1%;
 }
 
-/* line 62, ../sass/application.sass */
+/* line 63, ../sass/application.sass */
 #gamecontainer {
   clear: both;
   display: block;
@@ -116,26 +117,26 @@ html, body {
   height: 600px;
 }
 
-/* line 70, ../sass/application.sass */
+/* line 71, ../sass/application.sass */
 canvas {
   position: absolute;
   left: -50%;
 }
 
-/* line 74, ../sass/application.sass */
+/* line 75, ../sass/application.sass */
 #logo {
   position: absolute;
   left: -50%;
 }
 
-/* line 78, ../sass/application.sass */
+/* line 79, ../sass/application.sass */
 #levelup {
   position: absolute;
   left: -50%;
   display: none;
 }
 
-/* line 85, ../sass/application.sass */
+/* line 86, ../sass/application.sass */
 .mainfooter {
   display: block;
   padding-top: 1.5%;
@@ -144,7 +145,7 @@ canvas {
   font: italic 0.8em/1.5em "EB Garamond", serif;
   text-align: center;
 }
-/* line 92, ../sass/application.sass */
+/* line 93, ../sass/application.sass */
 .mainfooter a {
   color: black;
 }

diff --git a/index-min.html b/index-min.html
@@ -25,7 +25,6 @@
     <!-- scripts -->
     <script src="javascripts/Core.js"></script>
     <script src="javascripts/Box2dWeb-2.1.a.3.min.js"></script>
-    <script src="javascripts/PhysicsEngine.js"></script>
 	</head>
 
 	<body>
@@ -63,20 +62,8 @@
         document.getElementById('browserwarning').style.visibility = 'visible';
       }
     </script>
-    <script src="javascripts/AssetManager.js"></script>
-    <script src="javascripts/GameEngine.js"></script>
-    <script src="javascripts/Entity.js"></script>
-    <script src="javascripts/SoundManager.js"></script>
-    <script src="javascripts/InputEngine.js"></script>
-    <script src="javascripts/Spritesheet.js"></script>
-    <script src="javascripts/AnimatedEntity.js"></script>
-    <script src="javascripts/TILEDmap.js"></script>
-    <script src="javascripts/EnemyEntity.js"></script>
-    <script src="javascripts/Background.js"></script>
-    <script src="javascripts/GoalEntity.js"></script>
-    <script src="javascripts/PlatformEntity.js"></script>
-    <script src="javascripts/Player.js"></script>
-    <script src="javascripts/application.js"></script>      
+
+    <script src="javascripts/creamy-min.js"></script>      
 
     <script type="text/javascript">
 

diff --git a/javascripts/application.js b/javascripts/application.js
@@ -29,7 +29,7 @@
 
     var inter = setInterval(function() {
       gLoading.style.top =  (parseInt(gLoading.style.top, 10) + 1) + '%';
-      if (parseInt(gLoading.style.top, 10) > 70) {
+      if (parseInt(gLoading.style.top, 10) >= 70) {
         clearInterval(inter);
       }
     }, 10);
@@ -38,11 +38,6 @@
   // ******************************************************************************* assets
   var assets = [
       'images/controls.png',
-      'javascripts/SoundManager.js',
-      'javascripts/InputEngine.js',
-      'javascripts/Spritesheet.js',
-      'javascripts/TILEDmap.js',
-      'javascripts/AnimatedEntity.js',
       'images/doneloading.png',
       'images/winner.png'];
 

diff --git a/sass/application.sass b/sass/application.sass
@@ -27,6 +27,7 @@
 #loading
   position: fixed
   top: 45%
+  left: 6%
   width: 100%
   text-align: center
   font: 1.6em 'EB Garamond', serif
